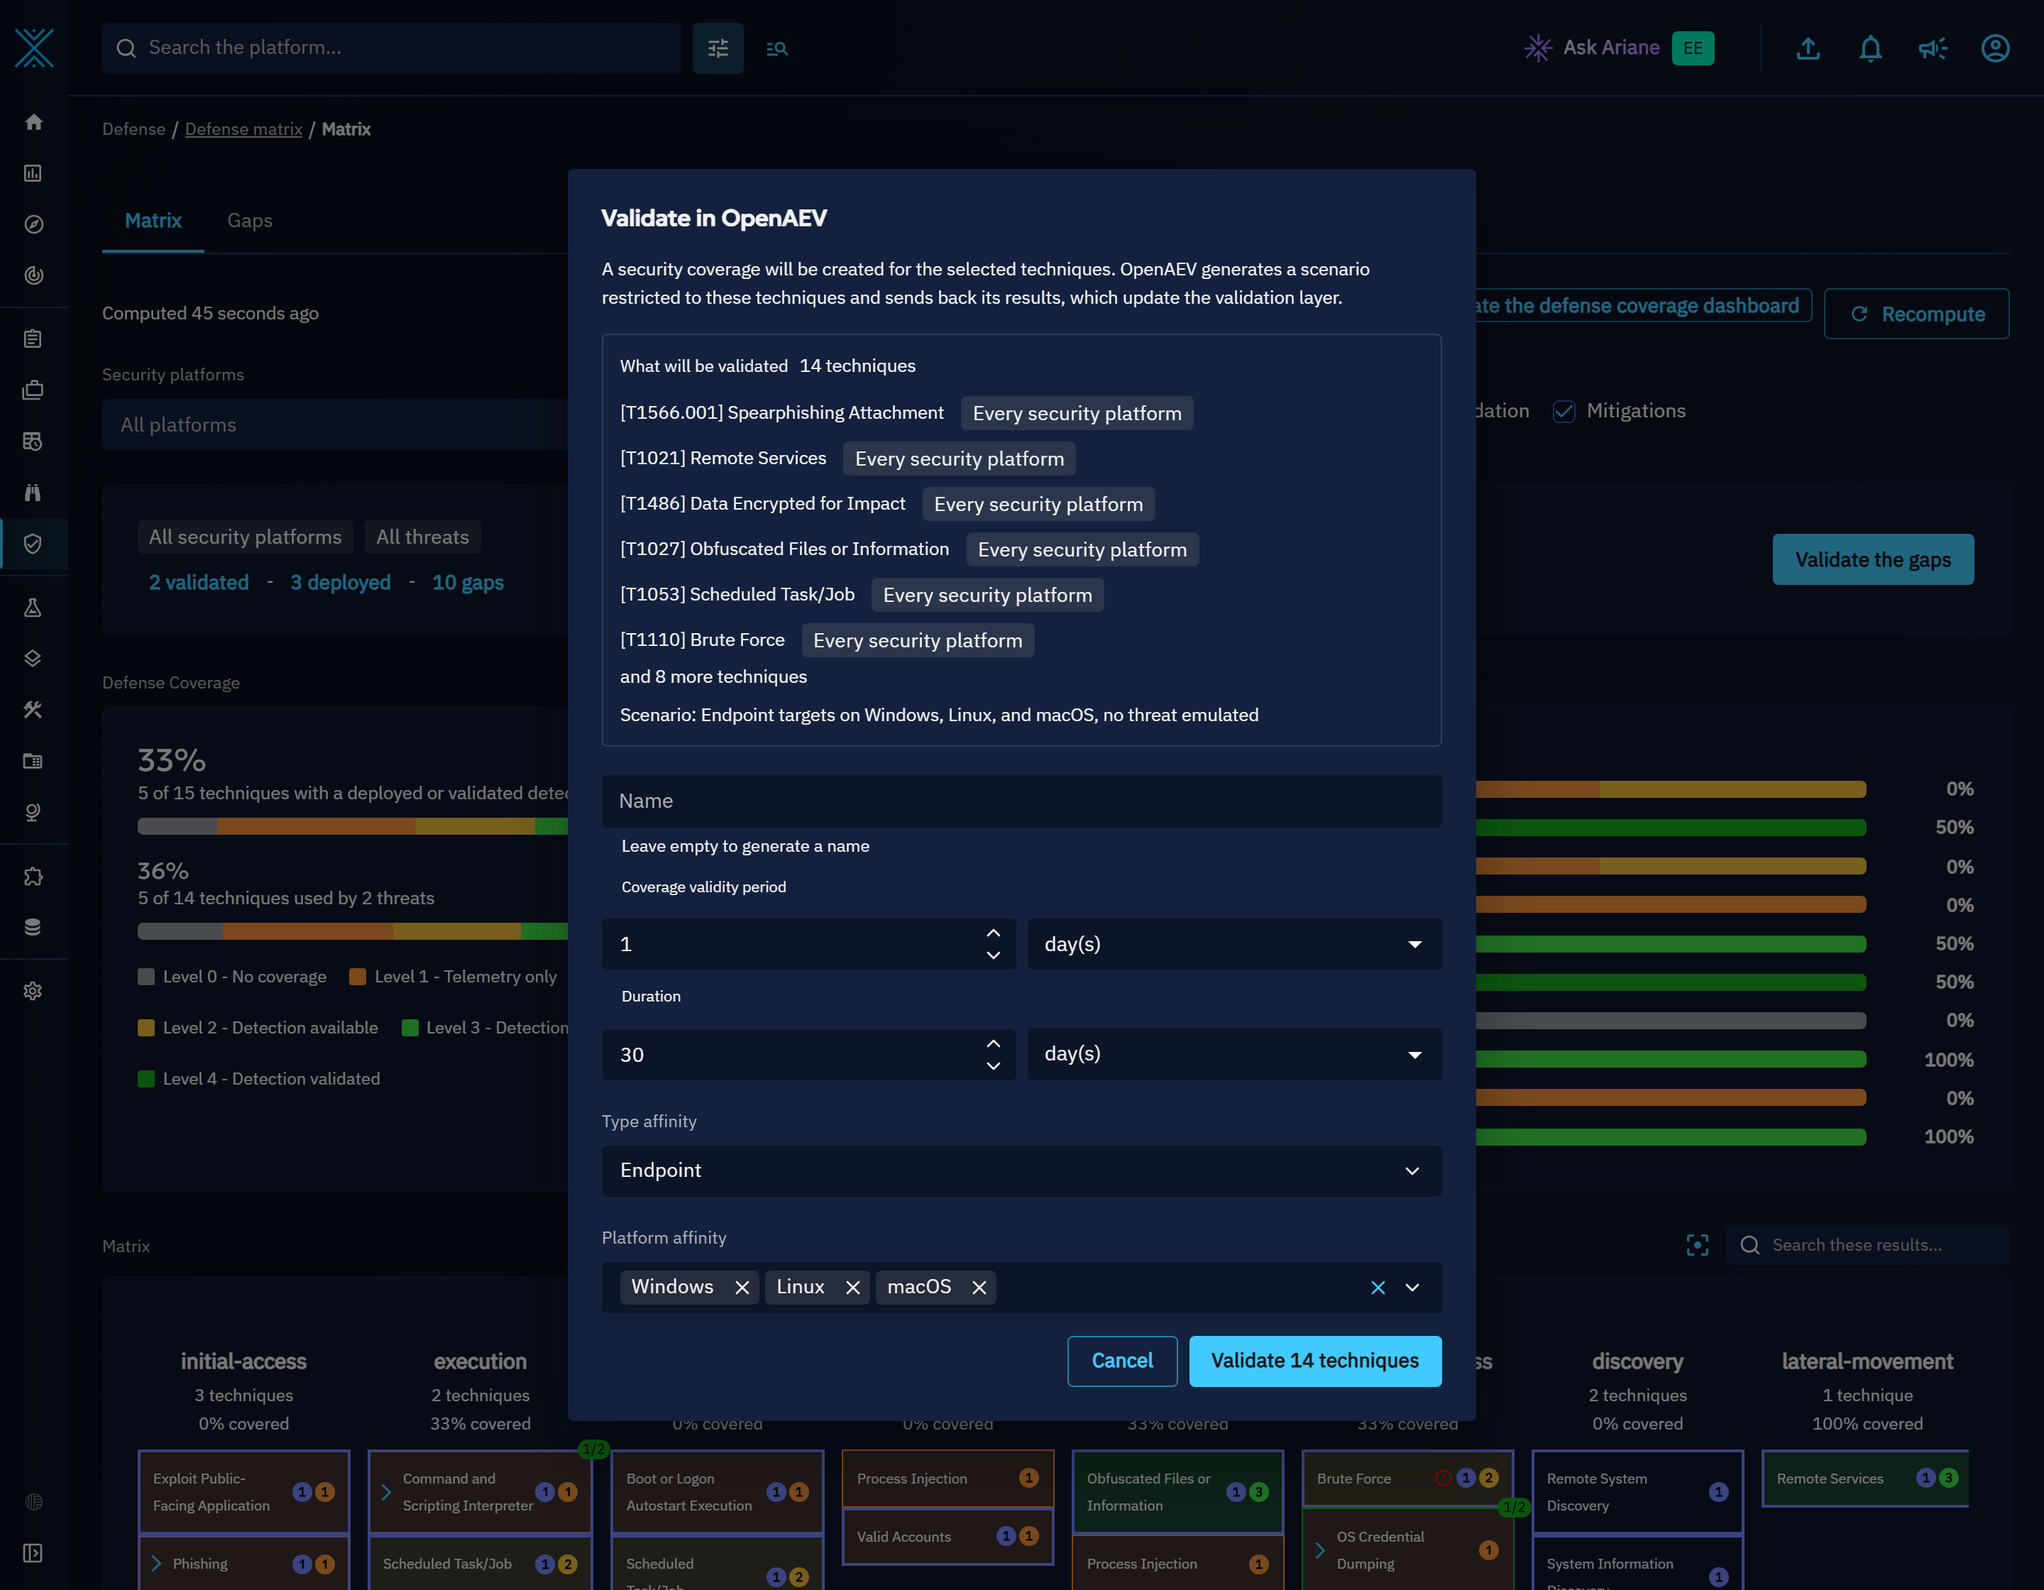
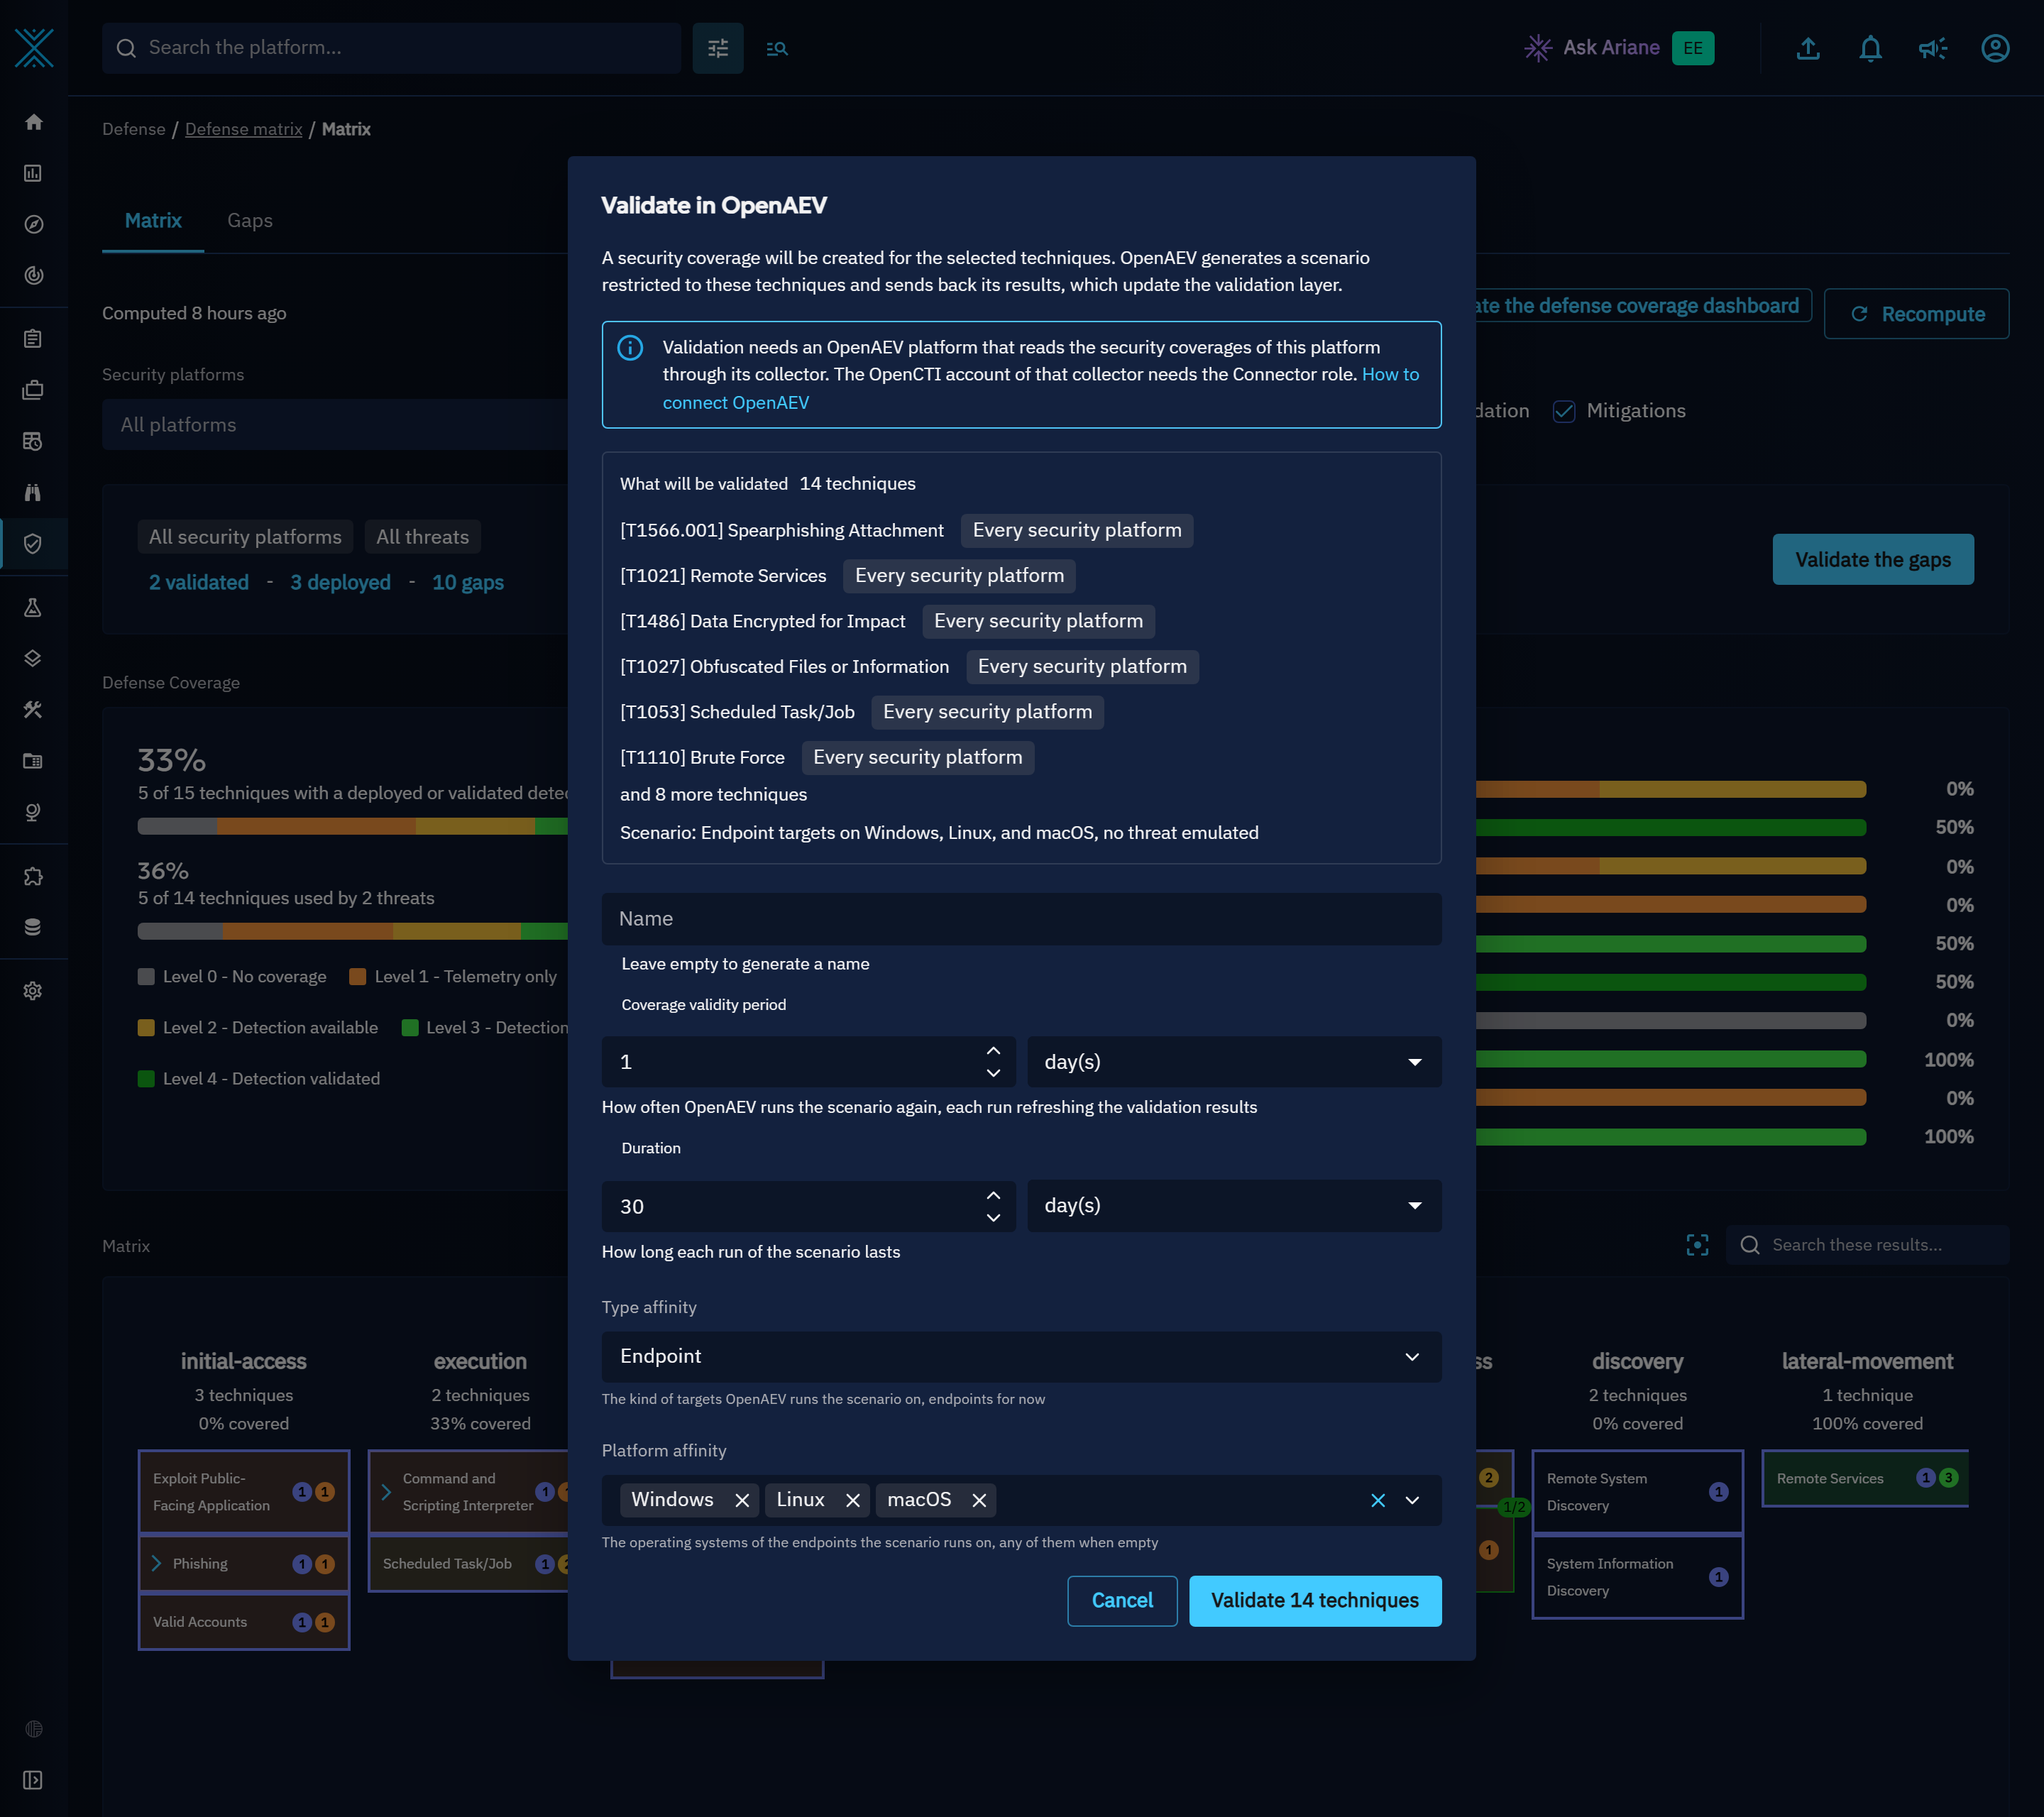
docs(defense-matrix): capture the validation setup, the waiting requests and the log source help (#18679)
The validation dialog is captured again, dark and light, with its setup
note and field help; new captures show the validation requests of the
technique drawer waiting for OpenAEV and the log source dialog with its
help line and the reason of the disabled Add button. The help lines of the
validity period and duration fields use the secondary text color so they
stay readable in the light theme.

diff --git a/opencti-platform/opencti-front/src/private/components/defense/matrix/DefenseValidationDialog.tsx b/opencti-platform/opencti-front/src/private/components/defense/matrix/DefenseValidationDialog.tsx
@@ -255,17 +255,21 @@ const DefenseValidationDialog = ({ open, onClose, onValidated, techniques, platf
             <PeriodicityField
               name="periodicity"
               label={t_i18n('Coverage validity period')}
-              helperText={t_i18n('How often OpenAEV runs the scenario again, each run refreshing the validation results')}
               style={fieldSpacingContainerStyle}
               setFieldValue={setFieldValue}
             />
+            <Typography variant="caption" color="text.secondary" component="p" sx={{ marginTop: 0.5 }}>
+              {t_i18n('How often OpenAEV runs the scenario again, each run refreshing the validation results')}
+            </Typography>
             <PeriodicityField
               name="duration"
               label={t_i18n('Duration')}
-              helperText={t_i18n('How long each run of the scenario lasts')}
               style={fieldSpacingContainerStyle}
               setFieldValue={setFieldValue}
             />
+            <Typography variant="caption" color="text.secondary" component="p" sx={{ marginTop: 0.5 }}>
+              {t_i18n('How long each run of the scenario lasts')}
+            </Typography>
             <Field
               component={SelectFieldFds}
               variant="outlined"

diff --git a/docs/docs/usage/defense-matrix.md b/docs/docs/usage/defense-matrix.md
@@ -37,6 +37,8 @@ A security platform, or a system, declares the MITRE data components it collects
 
 ![Coverage tab of a security platform](assets/defense-matrix-platform-coverage.png)
 
+![Declaring telemetry from log sources](assets/defense-matrix-logsources-dialog.png)
+
 Telemetry is also inferred from the log sources of the rules running on a platform (deployment status deployed or active): a pending, failed, removed or expired deployment does not prove that the platform collects the log source. An inferred telemetry counts for a reader only if this reader can access the rule, its deployment and the `indicates` relationship linking the rule to the technique.
 
 ### Telemetry mappings
@@ -114,7 +116,11 @@ Validation needs OpenAEV connected to the platform: an OpenAEV platform reads th
 
 ![Validation dialog](assets/defense-matrix-validation-dialog.png)
 
-Each request listed in the technique drawer tells where OpenAEV stands: **Waiting for OpenAEV** while no OpenAEV platform has read its security coverage, then **Read by OpenAEV, waiting for the first results** until the scenario sends results. When OpenAEV sends the results back, they update the validation layer. OpenAEV runs the scenario on endpoints, not on a security platform: every platform watching these endpoints reports through its own collector, and OpenAEV attributes each result to the security platform that produced it. The level of a technique on a platform only counts the results of that platform, so a selected platform that reports nothing keeps its gap open, and the results of a platform you did not select still update the levels of that platform.
+Each request listed in the technique drawer tells where OpenAEV stands: **Waiting for OpenAEV** while no OpenAEV platform has read its security coverage, then **Read by OpenAEV, waiting for the first results** until the scenario sends results.
+
+![Validation requests waiting for OpenAEV](assets/defense-matrix-drawer-requests.png)
+
+When OpenAEV sends the results back, they update the validation layer. OpenAEV runs the scenario on endpoints, not on a security platform: every platform watching these endpoints reports through its own collector, and OpenAEV attributes each result to the security platform that produced it. The level of a technique on a platform only counts the results of that platform, so a selected platform that reports nothing keeps its gap open, and the results of a platform you did not select still update the levels of that platform.
 
 Applications requesting a validation through the API (`defenseGapsValidate` mutation) can pass an `external_reference_url`, an http or https link to what asked for the validation (a risk scenario, a ticket). It is stored as an external reference of the security coverage, named after the host of the link.
 
